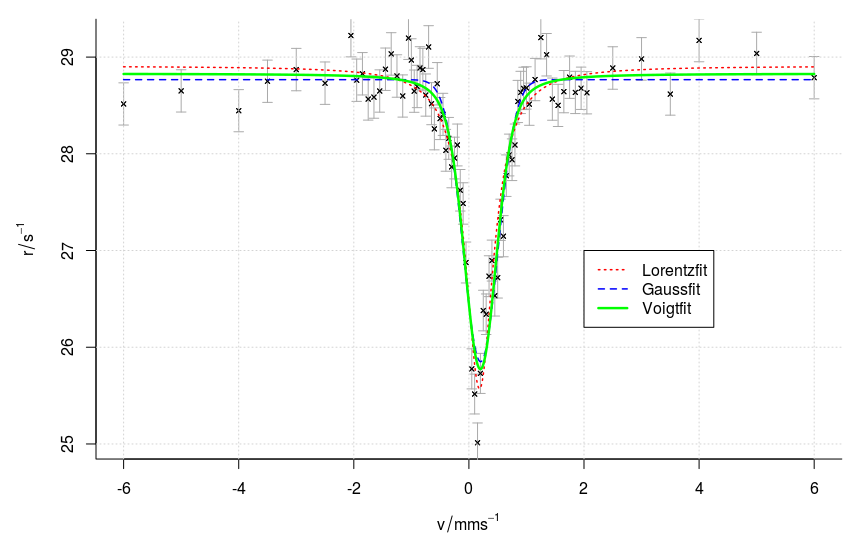
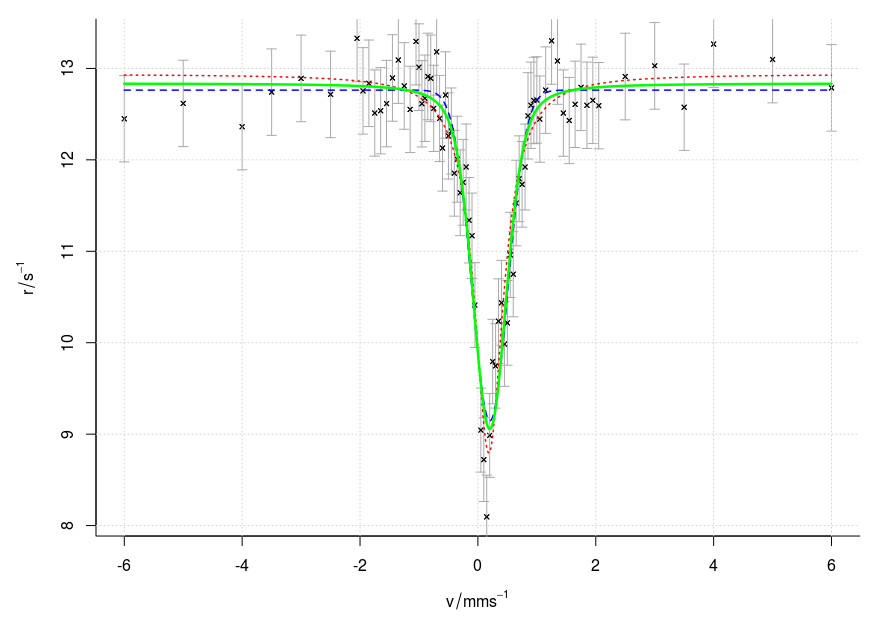
shdfkjz

Changed region(s): [[0.0, 0.0306, 0.9663, 0.9189], [0.6945, 0.4595, 0.8455, 0.6126], [0.5134, 0.9189, 0.5738, 0.9802]]

diff --git a/tex/fp_auswertung.tex b/tex/fp_auswertung.tex
@@ -65,12 +65,12 @@ und anschließend eine Voigtfunktion
 gefittet. Dabei wurden folgende Fitparameter ermittelt:
 \begin{align*}
 	&\mathbf{r_\textbf{Gauss}}\textbf{:}&&\mathbf{r_\textbf{Lorentz}}\textbf{:}&&\mathbf{r_\textbf{Voigt}}\textbf{:}\\
-	C&=(28,76\pm0,04)\,\si{s^{-1}}&D&=(32,24\pm0,15)\,\si{s^{-1}}&C&=(28,82\pm0,06)\,\si{s^{-1}}
-	\\N&=-(2,21\pm0,11)\,\si{mms^{-2}}&C&=-(6,7\pm0,3)\,\si{s^{-1}}&A&=-(2,6\pm0,3)\,\si{mms^{-2}}
-	\\\mu&=(0,203\pm0,013)\,\si{mms^{-1}}&\omega&=(0,185\pm0,012)\,\si{mms^{-1}}&\mu&=(0,200\pm0,013)\,\si{mms^{-1}}
-	\\\sigma&=(0,302\pm0,014)\,\si{mms^{-1}}&\tau&=(1,66\pm0,11)\,\si{mm^{-1}s}&\sigma&=(0,22\pm0,05)\,\si{mms^{-1}}
+	C&=(12,76\pm0,05)\,\si{s^{-1}}&D&=(17,08\pm0,19)\,\si{s^{-1}}&C&=(12,84\pm0,08)\,\si{s^{-1}}
+	\\N&=-(2,75\pm0,13)\,\si{mms^{-2}}&C&=-(8,3\pm0,3)\,\si{s^{-1}}&A&=-(3,2\pm0,4)\,\si{mms^{-2}}
+	\\\mu&=(0,204\pm0,013)\,\si{mms^{-1}}&\omega&=(0,186\pm0,012)\,\si{mms^{-1}}&\mu&=(0,201\pm0,013)\,\si{mms^{-1}}
+	\\\sigma&=(0,303\pm0,014)\,\si{mms^{-1}}&\tau&=(1,66\pm0,12)\,\si{mm^{-1}s}&\sigma&=(0,22\pm0,05)\,\si{mms^{-1}}
 	\\&&&&\gamma&=(0,14\pm0,08)\\\ 
-	\\&\frac{\chi^2}{\mathrm{ndf}}=1,70&&\frac{\chi^2}{\mathrm{ndf}}=1,73&&\frac{\chi^2}{\mathrm{ndf}}=1,69
+	\\&\frac{\chi^2}{\mathrm{ndf}}=0,55&&\frac{\chi^2}{\mathrm{ndf}}=0,56&&\frac{\chi^2}{\mathrm{ndf}}=0,55
 \end{align*}
 
 
@@ -97,16 +97,16 @@ gefittet. Die hierbei erhaltenen Fitparameter sind in den Tabellen \ref{tab:sech
 	\centering
 	\begin{tabular}{l|ccc}
 		$i$&$N_i\,/\,\si{mms^{-2}}$&$\mu_i\,/\,\si{mms^{-1}}$&$\sigma_i\,/\,\si{mms^{-1}}$\\\hline
-		$1$&$-1,29\pm0,12$&$-5,24\pm0,03$&$0,33\pm0,04$\\
-		$2$&$-1,11\pm0,14$&$-2,95\pm0,03$&$0,24\pm0,04$\\
-		$3$&$-0,64\pm0,13$&$-0,55\pm0,06$&$0,26\pm0,06$\\
-		$4$&$-0,54\pm0,14$&$ 0,94\pm0,07$&$0,24\pm0,07$\\
-		$5$&$-0,95\pm0,12$&$ 3,21\pm0,03$&$0,31\pm0,05$\\
-		$6$&$-1,15\pm0,10$&$ 5,43\pm0,05$&$0,44\pm0,05$\\
+		$1$&$-1,60\pm0,15$&$-5,24\pm0,03$&$0,33\pm0,04$\\
+		$2$&$-1,38\pm0,17$&$-2,95\pm0,03$&$0,24\pm0,04$\\
+		$3$&$-0,80\pm0,17$&$-0,55\pm0,06$&$0,26\pm0,06$\\
+		$4$&$-0,67\pm0,18$&$ 0,94\pm0,07$&$0,24\pm0,07$\\
+		$5$&$-1,18\pm0,15$&$ 3,21\pm0,05$&$0,31\pm0,05$\\
+		$6$&$-1,43\pm0,13$&$ 5,43\pm0,05$&$0,44\pm0,05$\\
 	\end{tabular}\\
 	\begin{align*}
-		C&=(28,46\pm0,03)\,\si{s^{-1}}\\
-		\frac{\chi^2}{\mathrm{ndf}}&=1,16
+		C&=(12,38\pm0,04)\,\si{s^{-1}}\\
+		\frac{\chi^2}{\mathrm{ndf}}&=0,38
 	\end{align*}
 	\caption{Fitdaten des sechsfachen Gaußfits aus Abbildung \ref{fig:sechslinien} (siehe Gleichung \ref{eq:sechsgaus})}
 	\label{tab:sechsgaus}
@@ -116,16 +116,16 @@ gefittet. Die hierbei erhaltenen Fitparameter sind in den Tabellen \ref{tab:sech
 	\centering
 	\begin{tabular}{l|ccc}
 		$i$&$C_i\,/\,\si{s^{-1}}$&$\omega_i\,/\,\si{mms^{-1}}$&$\tau_i\,/\,\si{mm^{-1}s}$\\\hline
-		$1$&$-2,9\pm0,3$&$-5,24\pm0,03$&$1,3\pm0,2$\\
-		$2$&$-2,4\pm0,3$&$-2,94\pm0,04$&$1,5\pm0,3$\\
-		$3$&$-1,5\pm0,3$&$-0,55\pm0,06$&$1,6\pm0,5$\\
-		$4$&$-1,2\pm0,3$&$ 0,96\pm0,08$&$1,7\pm0,7$\\
-		$5$&$-2,2\pm0,3$&$ 3,21\pm0,04$&$1,5\pm0,3$\\
-		$6$&$-2,7\pm0,2$&$ 5,44\pm0,04$&$1,01\pm0,15$\\
+		$1$&$-3,7\pm0,3$&$-5,24\pm0,03$&$1,3\pm0,2$\\
+		$2$&$-3,0\pm0,4$&$-2,94\pm0,04$&$1,5\pm0,3$\\
+		$3$&$-1,9\pm0,4$&$-0,55\pm0,06$&$1,6\pm0,5$\\
+		$4$&$-1,5\pm0,4$&$ 0,96\pm0,08$&$1,7\pm0,7$\\
+		$5$&$-2,7\pm0,4$&$ 3,21\pm0,04$&$1,5\pm0,3$\\
+		$6$&$-3,4\pm0,3$&$ 5,44\pm0,04$&$-1,01\pm0,15$\\
 	\end{tabular}\\
 	\begin{align*}
-	D&=(35,2\pm0,03)\,\si{s^{-1}}\\
-	\frac{\chi^2}{\mathrm{ndf}}&=1,19
+	D&=(20,7\pm0,5)\,\si{s^{-1}}\\
+	\frac{\chi^2}{\mathrm{ndf}}&=0,39
 	\end{align*}
 	\caption{Fitdaten des sechsfachen Lorentzfits aus Abbildung \ref{fig:sechslinien} (siehe Gleichung \ref{eq:sechslorentz})}
 	\label{tab:sechslorentz}
@@ -135,16 +135,16 @@ gefittet. Die hierbei erhaltenen Fitparameter sind in den Tabellen \ref{tab:sech
 	\centering
 	\begin{tabular}{l|cccc}
 		$i$&$N_i\,/\,\si{mms^{-2}}$&$\mu_i\,/\,\si{mms^{-1}}$&$\sigma_i\,/\,\si{mms^{-1}}$&$\gamma$\\\hline
-		$1$&$-1,1\pm0,3$&$-5,24\pm0,03$&$0,32\pm0,12$&$0,0\pm0,2$\\
-		$2$&$-1,0\pm0,2$&$-2,95\pm0,04$&$0,0\pm0,4$&$0,27\pm0,15$\\
-		$3$&$-0,6\pm0,3$&$-0,50\pm0,07$&$0\pm80$&$0,3\pm0,2$\\
-		$4$&$-0,11\pm0,15$&$ 0,98\pm0,07$&$0,5\pm0,3$&$-0,8\pm0,9$\\
-		$5$&$-1,2\pm0,3$&$ 3,24\pm0,05$&$0,1\pm0,4$&$0,3\pm0,2$\\
-		$6$&$-0,8\pm0,3$&$ 5,45\pm0,04$&$0,70\pm0,16$&$-0,6\pm0,5$\\
+		$1$&$-1,3\pm0,4$&$-5,24\pm0,03$&$0,31 \pm0,12$&$0,0 \pm0,2$\\
+		$2$&$-1,3\pm0,3$&$-2,96\pm0,04$&$0,0  \pm1,5$ &$0,28\pm0,15$\\
+		$3$&$-0,7\pm0,2$&$-0,51\pm0,07$&$0    \pm60$  &$0,27 \pm0,10$\\
+		$4$&$-0,16\pm0,19$&$ 0,98\pm0,07$&$0,5\pm0,2$ &$-0,7\pm0,8$\\
+		$5$&$-1,5\pm0,4$&$ 3,24\pm0,05$&$0,1  \pm0,4$ &$0,3 \pm0,2$\\
+		$6$&$-1,1\pm0,4$&$ 5,45\pm0,04$&$0,70 \pm0,16$&$-0,6\pm0,4$\\
 	\end{tabular}\\
 	\begin{align*}
-		C&=(28,48\pm0,06)\,\si{s^{-1}}\\
-		\frac{\chi^2}{\mathrm{ndf}}&=1,13
+		C&=(12,41\pm0,07)\,\si{s^{-1}}\\
+		\frac{\chi^2}{\mathrm{ndf}}&=0,37
 	\end{align*}
 	\caption{Fitdaten des sechsfachen Voigtfits aus Abbildung \ref{fig:sechslinien} (siehe Gleichung \ref{eq:sechsvoigt})}
 	\label{tab:sechsvoigt}
